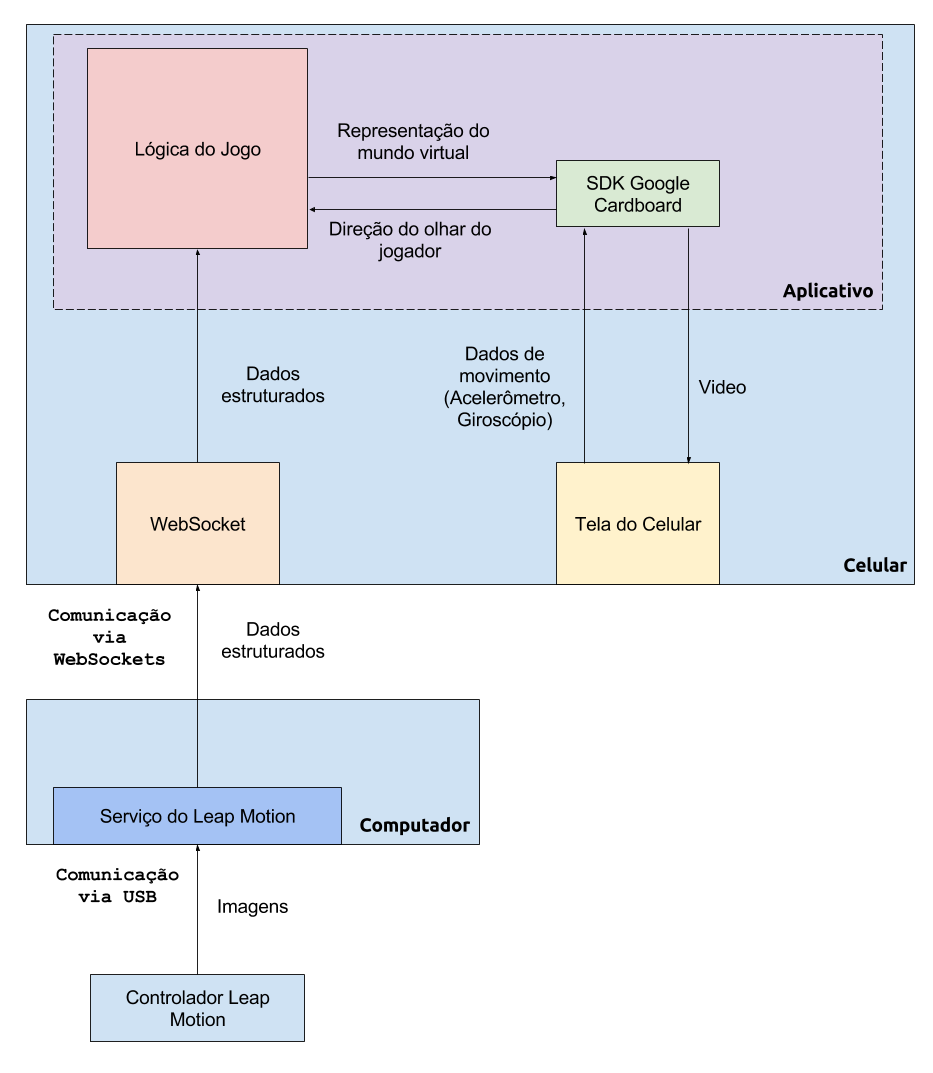
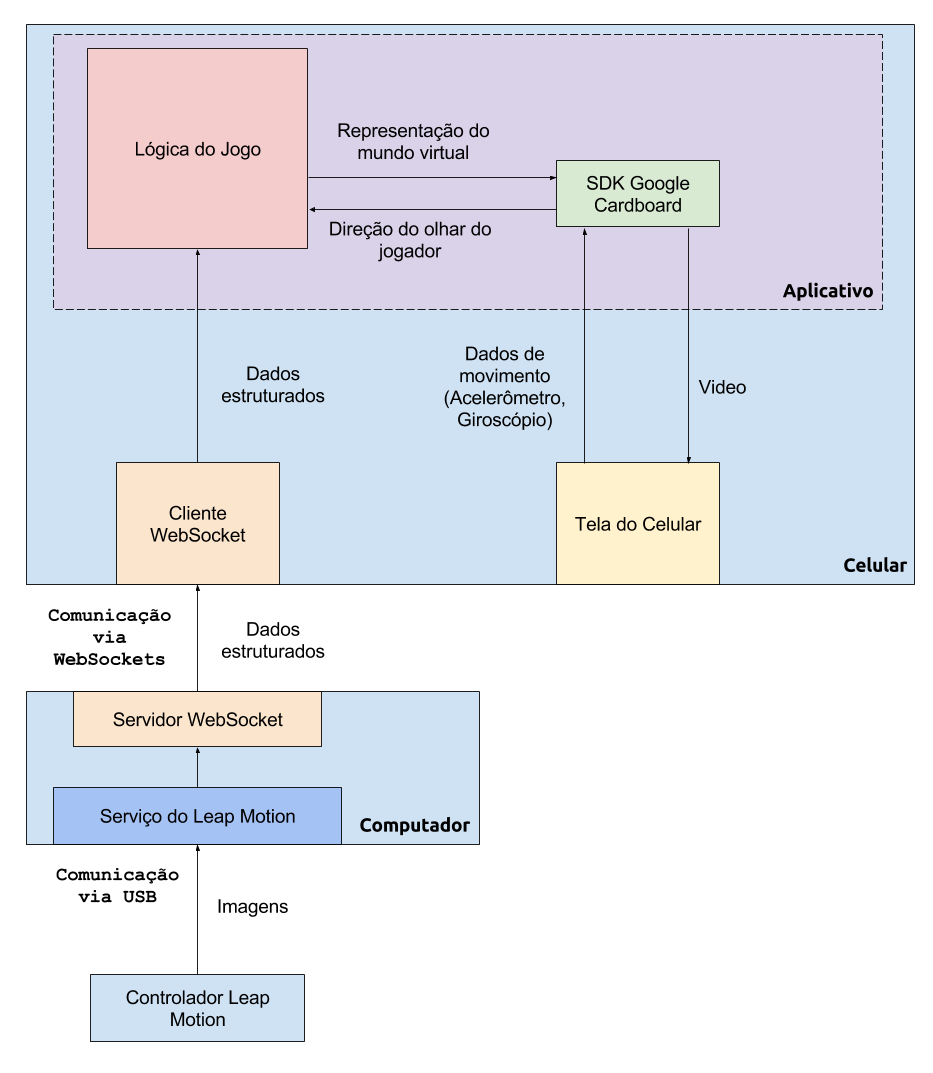
[LATEX] Rewrote a bit of the Desenvolvimento + todos

Changed region(s): [[0.0311, 0.6459, 0.5284, 0.7074], [0.1554, 0.4613, 0.2797, 0.5228]]

diff --git a/Latex/RV-teoria.tex b/Latex/RV-teoria.tex
@@ -92,7 +92,6 @@ representação virtual do mundo.
 O Ministerio da Educação (MEC) define um conjunto de parâmetros que devem estar
 presentes no curriculo de escolas em todo o Brasil. Estes são os Parâmetros
 Curriculares Nacionais (PCN), e abordam várias diferentes áreas importantes. 
-\TODO{ MEC é cultura tbm?	}
 
 As competências e habilidades de raciocínio lógico consideradas para análise
 consistem de um subconjunto dos PCN, em especial, daqueles relativos ao 
@@ -160,8 +159,8 @@ de raciocínio lógico segundo (------).
 % ---
 \section{Tecnologia}\label{sec-tecnologia}
 % ---
-\TODO{"colocar um parágrafo introduzindo essa seção."}
 
+Para se desenvolver este projeto, foi necessário se familiarizar com algumas tecnologias, apresentadas a seguir. 
 % ---
 \subsection{Protocolo WebSocket}\label{subsec-teo-websocket}
 % ---
@@ -192,17 +191,17 @@ Software Development Kit foi lançada em maio de 2012. Dois anos depois, foi
 apresentada a segunda versão do SDK, que melhorou bastante o rastreamento das 
 mãos, e que é atualmente a versão mais utilizada. No início de 2016, a mais 
 nova versão, chamada Orion, foi lançada, desenvolvida especialmente para a 
-realidade virtual.
+realidade virtual, de acordo com \cite{leap:2016:changeset}
 
 Para utilizar o controlador, são necessários 3 elementos diferentes: O hardware 
 do controlador em si; um software rodando como um serviço em um computador; 
-e um software 'cliente' que receberá os dados do serviço para utilizá-los.
-
-\TODO{"faltou a fonte sobre leap nos primeiro parágrafos da seção."}
+e um software 'cliente' que receberá os dados do serviço para utilizá-los, 
+como pode ser visto na arquitetura do Leap Motion \cite{leap:2016:architecture}
 
 O controlador nada mais é do que um conjunto de duas câmeras e 3 LEDs, todos 
-infravermelhos. Os LEDs projetam luz infravermelha, que é refletida pelas mãos 
-do usuário e captadas pelas câmeras. Estas imagens são enviadas ao serviço, 
+infravermelhos, de acordo com \cite{leap:2016:how-it-works}. Os LEDs projetam
+luz infravermelha, que é refletida pelas mãos do usuário e captadas 
+pelas câmeras. Estas imagens são enviadas ao serviço, 
 que utiliza algoritmos de visão computacional para gerar modelos tridimensionais 
 das mãos do usuário. A versão 2 do software aumentou muito a precisão do 
 controlador por começar a trabalhar com um modelo esqueletal da mão, baseado 
@@ -232,7 +231,8 @@ O \textit{Google Cardboard} é um projeto da empresa Google criada em 2014 para
 fomentar o desenvolvimento de aplicações de realidade virtual. É composta por um 
 \textit{headset} e de um software compatível. A ideia principal do projeto era
 conseguir proporcionar a experiência de realidade virtual da forma mais barata 
-o possível. Para alcançar tal objetivo, o \textit{headset} é feito de papelão, 
+o possível, conforme dito em \cite{cnet:2016:google-cardboard}. Para 
+alcançar tal objetivo, o \textit{headset} é feito de papelão, 
 de tal forma que o único subcomponente mais caro seja as lentes. Adicionalmente, 
 um celular é utilizado tanto como poder de processamento do \textit{headset} 
 quanto como a tela deste. Visto que uma grande parcela da população ja tem um 
@@ -249,8 +249,6 @@ de forma que a imagem após passar pela lente fique correta. É também necessá
 ler sensores encontrados no dispositivo móvel, como acelerômetros e giroscópios, 
 e disponibilizar estes dados para que se possa implementar o movimento do 
 usuário dentro do jogo ou aplicativo.
-
-\TODO{"faltou a fonte sobre leap nos primeiro parágrafos da seção."}
 
 O SDK do Google Cardboard, distribuído pela própria Google e disponível online 
 em \cite{google:2016:cardboardSDK}, já faz todas estas transformações necessárias 

diff --git a/Latex/RV-desenvolvimento.tex b/Latex/RV-desenvolvimento.tex
@@ -284,8 +284,12 @@ aonde essa intermediação acontece.
 
 Nesta opção, conecta-se o controlador a um computador que esteja rodando o 
 serviço do \textit{Leap Motion}, transformando as imagens do controlador em 
-dados estruturados. Estes são, então, enviados a um celular que esteja rodando 
-a lógica do jogo e fazendo as transformações necessárias para a saída de vídeo. 
+dados estruturados. O celular que está executando a lógica do jogo então se
+conecta ao servidor \textit{websocket} gerado pelo serviço do controlador que 
+esta rodando no computador. A partir desta conexão, o servidor envia os
+dados estruturados ao celular para que estes possam ser utilizados como 
+entradas no jogo. O celular então aplica as transformações necessárias para 
+a saída de vídeo, que é enviada à tela do celular.
 Esta opção é demonstrada na \autoref{fig:arquitetura-leap-pc-leapdata-android}.
 
 As vantagens desta opção é que podemos utilizar a versão mais recente 
@@ -322,7 +326,8 @@ na \autoref{fig:Arquitetura-leap-pc-riftcat-android}.
 As vantagens desta opção são que, por rodar num computador, o poder de 
 processamento é mais alto e, portanto, existem mais possibilidades quanto
 a algoritmos utilizados, mecânicas do jogo e processamento gráfico. A conexão 
-com o controlador, por ser direta, também significa uma latência baixa. 
+com o controlador, por ser direta, também significa uma latência baixa 
+neste quesito. 
 
 O principal contraponto desta opção é o aumento da latência entre o movimento 
 da cabeça do usuário e o movimento da cabeça virtual. Esta latência é maior do 
@@ -333,8 +338,9 @@ entre o jogador e o mundo virtual, mas também pode causar tontura e enjoo.
 
 \begin{figure}
 	\centering
-	\includegraphics[width=0.7\linewidth]{images/Arquitetura-leap-pc-riftcat-android}
 	\caption{Alternativa de arquitetura com streaming do video}
+	\includegraphics[width=0.7\linewidth]{images/Arquitetura-leap-pc-riftcat-android}
+	\legend{\fonteAP}
 	\label{fig:Arquitetura-leap-pc-riftcat-android}
 \end{figure}
 
@@ -395,12 +401,14 @@ A comparação das alternativas pode ser vista no \autoref{tabela:alternativas-a
 		\end{itemize}
 		&\begin{itemize}[label={},leftmargin=1mm]
 			\item Latência entre movimento da cabeça do jogador e movimento da cabeça virtual, podendo causar desconforto e náusea.
-			\item Dependência de mais software, podendo ser pago.
+			\item Dependência de mais software, podendo ser pago, e que pode ter como requisito um hardware mais caro para funcionar.
 		\end{itemize}
 	    \\ \hline 
 		Conexão Direta
 		&\begin{itemize}[label={},leftmargin=1mm]
 				\item Menor latência dentre as opções
+				\item Maior mobilidade
+				\item Não depende de um computador
 			\end{itemize}
 		&\begin{itemize}[label={},leftmargin=1mm]
 				\item Utiliza a versão v2 do \textit{SDK} do \textit{Leap}, que tem precisão pior.
@@ -414,9 +422,8 @@ A comparação das alternativas pode ser vista no \autoref{tabela:alternativas-a
 \label{tabela:alternativas-arquiteturas}
 \end{quadro}
 
-\TODO{Concluir a tabela 2}
+É possivel ver que as alternativas que não têm a conexão direta introduzem latências no sistema, mas em locais diferentes. O servidor \textit{Websocket} introduz latência na entrada referente ao movimento das mãos, enquanto o \textit{streaming} de video adiciona atrasos na saída do vídeo para o \textit{headset}. Por outro lado, a alternativa da conexão direta utiliza uma versão anterior do \textit{SDK} do controlador, que tem um rastreamento pior.
 
-\TODO{Ver diferenca entre Tabela e Quadro. Lucy acha que isso é um quadro.}
 % ---
 \subsection{Escolha da arquitetura}\label{subsec-arquitetura-escolha}
 % ---

diff --git a/Latex/RV-metodologia.tex b/Latex/RV-metodologia.tex
@@ -36,16 +36,11 @@ Este problema é documentado na forma de um \textit{Game Design Document} (GDD),
 que servirá tanto como um relatório quanto como um ponto de referência para 
 a realização do projeto nas etapas seguintes.
 
-
 % ---
 \section{Implementação iterativa}\label{sec-met-implementacao-iterativa}
 % ---
 
-Para a implementação do jogo em si, adota-se a metodologia de design iterativo,
-consistente de uma aplicação do ciclo de desenvolvimento de software de 
-Boehm (\autoref{fig:ciclo-boehm}) no âmbito de projetos de jogos digitais.
-
-\begin{figure}[ht]
+\begin{figure}[!htb]
 	\centering
 	\caption{Ciclo de Boehm.}
 	\includegraphics[width=0.5\textwidth]{ciclo_boehm}
@@ -53,10 +48,14 @@ Boehm (\autoref{fig:ciclo-boehm}) no âmbito de projetos de jogos digitais.
 	\label{fig:ciclo-boehm}
 \end{figure}
 
+Para a implementação do jogo em si, adota-se a metodologia de design iterativo,
+consistente de uma aplicação do ciclo de desenvolvimento de software de 
+Boehm (\autoref{fig:ciclo-boehm}) no âmbito de projetos de jogos digitais.
+
 Nos termos dessa metodologia, um jogo digital deve ser implementado por meio de 
 um processo iterativo, ciclando entre seis fase principais: \textit{Brainstorming}, 
 escolha da solução, análise de riscos, prototipação, teste e análise e 
-refinamento do \textit{design}
+refinamento do \textit{design}.
 
 % ---
 \subsection{\textit{Brainstorming}}\label{subsec-met-brainstorming}

diff --git a/Latex/RV-consideracoes-finais.tex b/Latex/RV-consideracoes-finais.tex
@@ -9,13 +9,13 @@
 
 \chapter{Considerações finais}\label{cap-consideracoes-finais}
 
-Texto texto
+O objetivo deste trabalho foi criar um jogo efetivamente educacional, capaz de manter o engajamento e interesse do jogador, de forma a ajudar a exercitar habilidades de raciocínio lógico, além de desenvolver uma solução final de baixo custo que possa ser implementada em instituições educacionais.
 
 % ---
 \section{Principais Resultados}\label{sec-conc-resultados}
 % ---
 
-Texto numa secao (ex. 2.2)
+\TODO{Escrever}
 
 % ---
 \section{Contribuições}\label{sec-conc-contribuicoes}
@@ -53,10 +53,9 @@ bem pelo controlador. Conforme descrito na
 \autoref{subsec-teste-museu-catavento}, porém, é possível que este problema 
 tenha sido devido à iluminação do local, que atrapalha o controlador.
 
-Houve também dificuldade na definição da arquitetura, visto que a 
-primeira escolha de arquitetura acabou encontrando problemas devido 
-ao hardware, sendo necessário modificar a arquitetura para que o jogo 
-funcionasse da maneira prevista.
+A definição da arquitetura também encontrou obstáculos, visto que a 
+primeira escolha de arquitetura teve de ser modificada devido 
+a problemas relacionados ao hardware. Também ocorreu problemas devido à falta de documentação de elementos, como da versão do \textit{android} da biblioteca do \textit{Leap Motion} e do software \textit{Riftcat}.
 
 \TODO{Continuar}
 
